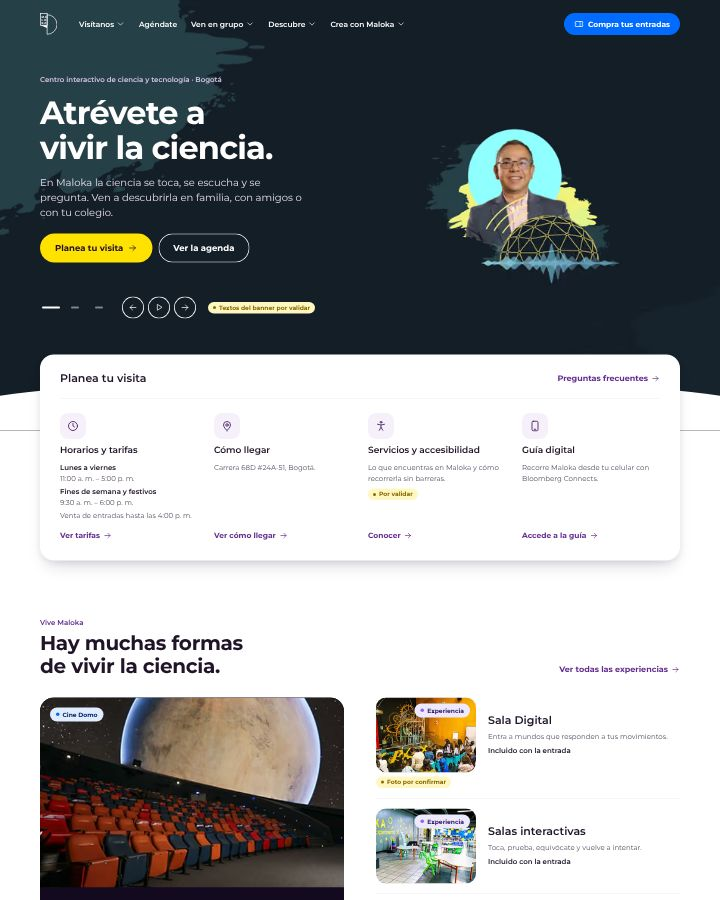
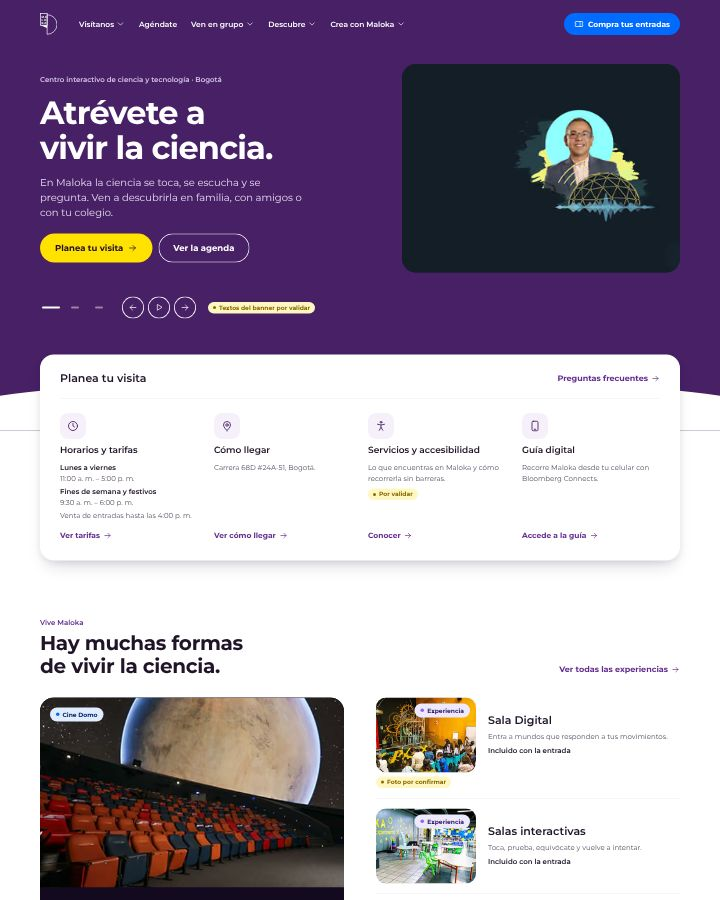
Usa la paleta del Design System en los encabezados
- Hero de V7 y encabezados de Visítanos y Agéndate en violeta 700 (bloque de marca), sin el fondo #141E27
- El banner actual pasa a un marco a la derecha, igual que las otras campañas
- Tarjetas del encabezado en violeta 800; una sola sección oscura por página, la del Cine Domo, con acento cyan
- En Visítanos el Cine Domo de Experiencias va en tonal porque la página ya tiene su bloque oscuro

Claude-Session: https://claude.ai/code/session_01EFVWw7hx15eVe1tm6XAzSg

diff --git a/src/styles/tokens.css b/src/styles/tokens.css
@@ -33,7 +33,7 @@
   --mk-lavanda-50: #EDEAFF; --mk-lavanda-500: #915FFF; --mk-lavanda-700: #6137B4; --mk-lavanda-900: #311B5E;
   --mk-verde-50: #E8FEEB;  --mk-verde-600: #00D45B;  --mk-verde-800: #036D2C;  --mk-verde-900: #004117;
   --mk-amar-50: #FCF9E5;   --mk-amar-600: #D3BB03;   --mk-amar-900: #3F3700;
-  --mk-cyan-50: #E9FDFA;   --mk-cyan-600: #0AD3C2;   --mk-cyan-900: #00403A;
+  --mk-cyan-50: #E9FDFA;   --mk-cyan-500: #00FFEA;   --mk-cyan-600: #0AD3C2;   --mk-cyan-900: #00403A;
   --mk-salmon-50: #FFEAE8; --mk-salmon-500: #FF5252; --mk-salmon-900: #570E11;
 
   /* Roles */
@@ -60,7 +60,8 @@
   --mk-info: #1F5FD1;      --mk-info-fondo: #E8F0FF;
   --mk-error: #C0352B;     --mk-error-fondo: #FDECEA;
 
-  /* Fondo del hero: el mismo tono del banner, para que el borde de la imagen no se note en móvil */
+  /* Solo la variante Elementor (banner a sangre): el tono del banner, para que el borde no se note en móvil.
+     No es un color del Design System: no usarlo en bloques nuevos. */
   --mk-hero-fondo: #141E27;
 
   /* Velo plano sobre fotografía */
